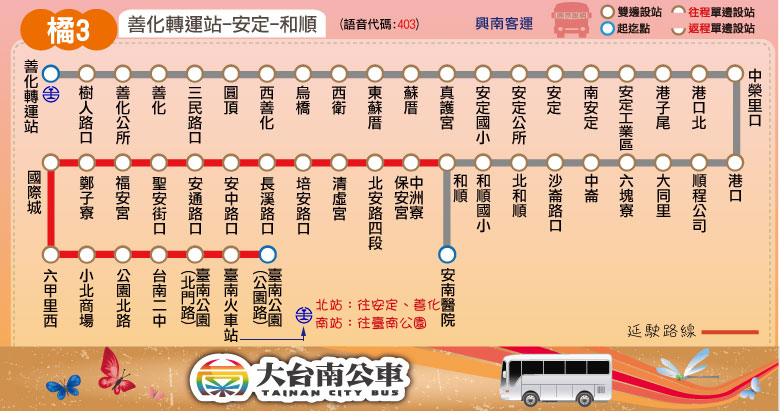
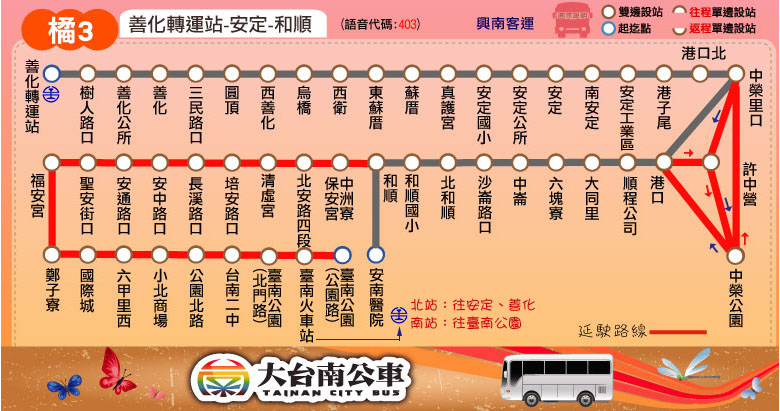
Update the route map and fare of o3

diff --git a/route/fare_and_time/orange_3.js b/route/fare_and_time/orange_3.js
@@ -6,7 +6,7 @@ orange_3_interval_stop = [
 ["東蘇厝","蘇厝","真護宮"], // 蘇厝
 ["安定國小","安定公所","安定","南安定","安定工業區"], // 安定
 ["港子尾"], // 港子尾
-["港口北","中榮里口","港口","順程公司"], // 港口
+["港口北","中榮里口","許中營","中榮公園","港口","順程公司"], // 港口
 ["大同里","六塊寮"], // 六塊寮
 ["中崙","沙崙路口"], // 中崙
 ["北和順","和順國小","和順","安南醫院","中洲寮保安宮"], // 和順
@@ -21,18 +21,29 @@ orange_3_fare = [
 [26,26,26,26],
 [26,26,26,26,26],
 [29,26,26,26,26,26],
-[35,30,26,26,26,26,26],
-[40,35,29,26,26,26,26,26],
-[44,40,34,28,26,26,26,26,26],
-[52,47,41,36,28,26,26,26,26,26],
-[68,63,57,51,43,38,33,28,26,26,26],
-[84,79,73,67,59,54,49,44,39,32,26,26]
+[39,34,28,26,26,26,26],
+[44,39,33,28,26,26,26,26],
+[49,44,38,32,26,26,26,26,26],
+[56,52,45,40,32,27,26,26,26,26],
+[72,67,61,55,47,43,33,28,26,26,26],
+[88,83,77,72,63,59,49,44,39,32,26,26]
 ];
 // format = [time at the start stop] or
 // [time, other] or
 // [time, start_stop, end_stop, other]
-orange_3_main_stop_name = ["善化<br />轉運站","蘇厝","安定","港口","中崙","和順","安南<br />醫院","中洲寮<br />保安宮","安通<br />路口","臺南<br />火車站","臺南公園<br />(公園路)"];
-orange_3_main_stop_time_consume = [0, 12, 16, 21, 25, 29, 30, 30, 40, 53, 58];
-orange_3_important_stop = [0, 2, 6, 7, 9, 10]; // 善化轉運站, 安定, 安南醫院, 中洲寮保安宮, 臺南火車站, 臺南公園(公園路)
-orange_3_time_go = [["06:00",[6,[9,7]]],["06:30",0,6],["09:15",0,6],["12:15",0,6],["14:40",0,6],["15:45",[6,[9,7]]],["17:15",0,6],["19:45",[6,[9,7]]]];
-orange_3_time_return = [["07:00",6,0],["07:30",[6,[8,7]]],["09:55",6,0],["13:00",6,0],["15:30",6,0],["17:45",6,0],["17:40",[6,[8,7]]],["21:20",[6,[8,7]]]];
+orange_3_main_stop_name = ["善化<br />轉運站","蘇厝","安定","許中營","港口","中崙","和順","安南<br />醫院","中洲寮<br />保安宮","安通<br />路口","臺南<br />火車站","臺南公園<br />(公園路)"];
+orange_3_main_stop_time_consume = [0, 12, 16, 23, 21, 25, 29, 30, 30, 45, 60, 65];
+orange_3_important_stop = [0, 2, 7, 8, 10, 11]; // 善化轉運站, 安定, 安南醫院, 中洲寮保安宮, 臺南火車站, 臺南公園(公園路)
+start_stop = 0;
+end_stop = 7;
+stop_1 = 3;
+orange_3_time_go = [
+["06:00",[end_stop,[stop_1+1,5]]],["06:30",start_stop,end_stop,[stop_1]],["09:15",start_stop,end_stop,[stop_1]],
+["12:15",start_stop,end_stop,[stop_1]],["14:40",start_stop,end_stop,[stop_1]],["15:45",[end_stop,[stop_1+1,5]]],
+["17:15",start_stop,end_stop,[stop_1]],["19:45",[end_stop,[stop_1+1,5]]]
+];
+orange_3_time_return = [
+["07:00",end_stop,start_stop,[stop_1]],["07:30",[end_stop,[stop_1,5]]],["09:55",end_stop,start_stop,[stop_1]],
+["13:00",end_stop,start_stop,[stop_1]],["15:30",end_stop,start_stop,[stop_1]],["17:45",end_stop,start_stop,[stop_1]],
+["17:40",[end_stop,[stop_1,5]]],["21:20",[end_stop,[stop_1,5]]]
+];
